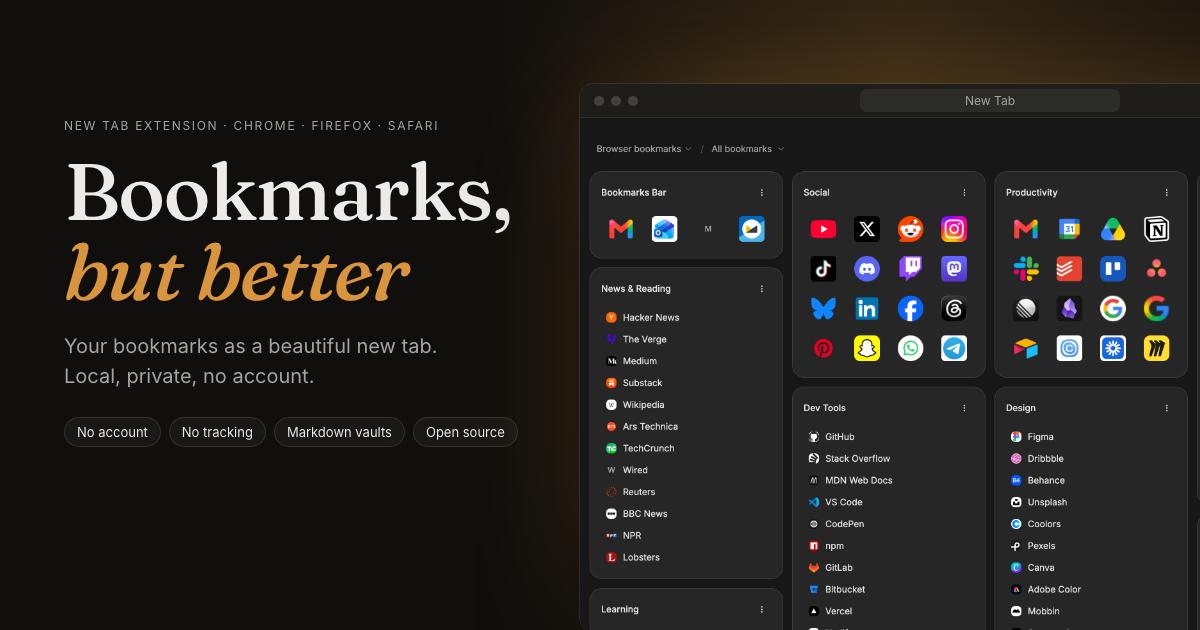
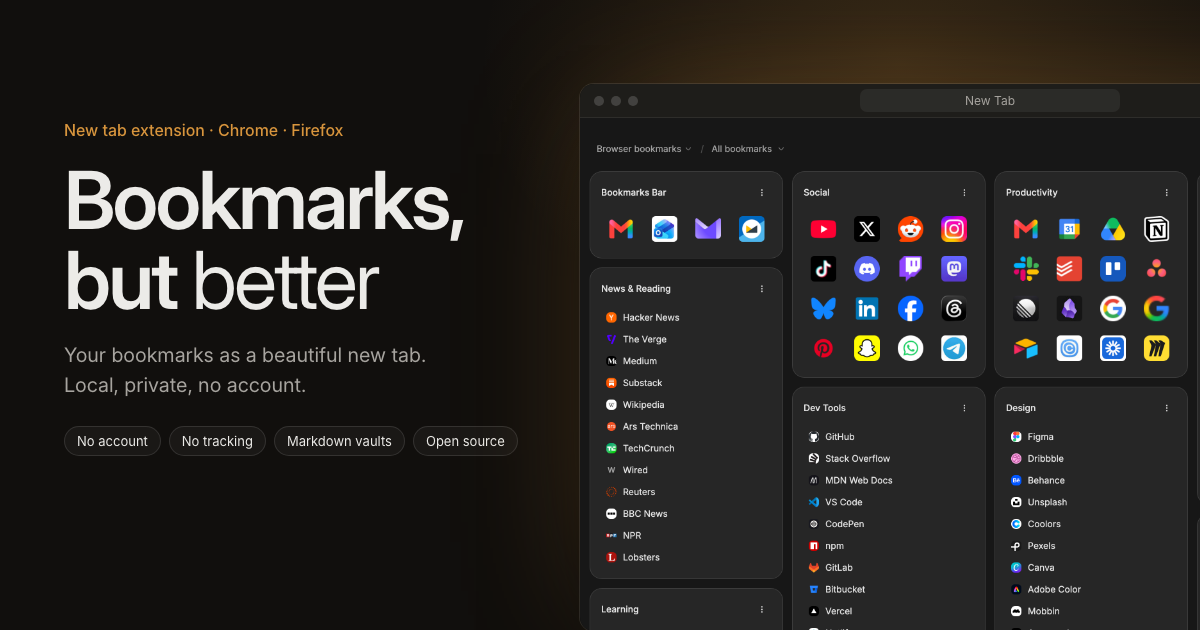
fix(marketing): rebuild the image pipeline on the new typography (#106)
Removing Fraunces from the website broke these scripts: brand.ts loads
its faces from the website's dependencies and throws when one is missing,
so on a clean install the pipeline failed. It now loads the same single
Inter file the site does, and sets headlines the way the site does, with
a weight shift where the serif had an italic.

The social card also claimed Safari, which the site now says is coming
soon, so every share said the opposite of the page it linked to. The card
is regenerated without that claim.

The store and promo images under marketing/output are left untouched.
They are uploaded to the extension stores by hand, and regenerating them
needs a human eye on six screenshots, so they stay stale rather than
half-updated.

diff --git a/marketing/scripts/capture.spec.ts b/marketing/scripts/capture.spec.ts
@@ -10,7 +10,7 @@
  * - website/public/          og.png (1200×630)
  * - website/src/assets/screenshots/  uncaptioned website screenshots
  *
- * Captions and visual language follow website/BRAND.md ("The Quiet Library").
+ * Captions and visual language follow website/BRAND.md ("Modern editorial").
  */
 import { test, type Browser } from "@playwright/test"
 import fs from "fs"
@@ -245,8 +245,8 @@ test("capture store, promo and website images", async ({ browser }) => {
   await test.step("promo tiles", async () => {
     const heroCss = (h1: number, sub: number) => `
       .hero { position: absolute; }
-      .hero .eyebrow { font-size: 12px; letter-spacing: 0.14em; text-transform: uppercase; color: var(--muted); }
-      .hero h1 { font-size: ${h1}px; line-height: 1.0; margin-top: 18px; }
+      .hero .eyebrow { font-size: 16px; line-height: 1.5; font-weight: 500; color: var(--primary); }
+      .hero h1 { font-size: ${h1}px; line-height: 1.0; margin-top: 18px; letter-spacing: -0.035em; }
       .hero p { font-size: ${sub}px; line-height: 1.5; color: var(--muted); margin-top: 20px; }
       .chips { display: flex; flex-wrap: wrap; gap: 8px; margin-top: 26px; }
       .chips span { font-size: 13px; color: var(--fg); padding: 6px 12px; border-radius: 999px; border: 1px solid var(--hairline); background: oklch(1 0 0 / 4%); }
@@ -259,8 +259,8 @@ test("capture store, promo and website images", async ({ browser }) => {
       `${OUT}/promo-marquee.png`,
       { width: 1400, height: 560 },
       `<div class="hero" style="left:72px;top:92px;width:520px">
-        <div class="eyebrow">New tab extension · Chrome · Firefox · Safari</div>
-        <h1 class="display">Bookmarks,<br><em>but better</em></h1>
+        <div class="eyebrow">New tab extension · Chrome · Firefox</div>
+        <h1 class="display">Bookmarks,<br>but <em>better</em></h1>
         <p>Your bookmarks as a beautiful new tab.<br>Local, private, no account.</p>
         ${chips}
       </div>` + browserWindow(dashboard, { left: 640, top: 72, width: 900 }),
@@ -272,8 +272,8 @@ test("capture store, promo and website images", async ({ browser }) => {
       `${SITE}/og.png`,
       { width: 1200, height: 630 },
       `<div class="hero" style="left:64px;top:118px;width:500px">
-        <div class="eyebrow">New tab extension · Chrome · Firefox · Safari</div>
-        <h1 class="display">Bookmarks,<br><em>but better</em></h1>
+        <div class="eyebrow">New tab extension · Chrome · Firefox</div>
+        <h1 class="display">Bookmarks,<br>but <em>better</em></h1>
         <p>Your bookmarks as a beautiful new tab.<br>Local, private, no account.</p>
         ${chips}
       </div>` + browserWindow(dashboard, { left: 580, top: 84, width: 820 }),
@@ -285,7 +285,7 @@ test("capture store, promo and website images", async ({ browser }) => {
       `${OUT}/promo-small.png`,
       { width: 440, height: 280 },
       `<div class="hero" style="left:28px;top:52px;width:250px">
-        <h1 class="display">Bookmarks,<br><em>but better</em></h1>
+        <h1 class="display">Bookmarks,<br>but <em>better</em></h1>
         <p>A beautiful, private<br>new tab for your bookmarks.</p>
       </div>` + browserWindow(dashboard, { left: 250, top: 40, width: 420 }),
       heroCss(38, 13) +

diff --git a/marketing/scripts/brand.ts b/marketing/scripts/brand.ts
@@ -18,31 +18,22 @@ export const APP_H = 800
 
 const FONTS = path.join(ROOT, "website/node_modules/@fontsource-variable")
 
+/**
+ * One face for everything, the same file the site loads (astro.config.ts): the
+ * `opsz` build carries the weight and optical size axes together, so display
+ * sizes get Inter Display's drawing without a second font.
+ */
 function fontFaces() {
-  const face = (family: string, file: string, style: string) => {
-    const fontPath = path.join(FONTS, file)
-    if (!fs.existsSync(fontPath)) {
-      // The brand fonts are the website's dependencies, not the root's.
-      throw new Error(
-        `Missing brand font ${path.relative(ROOT, fontPath)}. Run \`bun install --cwd website\` first.`
-      )
-    }
-    const data = fs.readFileSync(fontPath).toString("base64")
-    return `@font-face{font-family:"${family}";font-style:${style};font-weight:100 900;src:url(data:font/woff2;base64,${data}) format("woff2")}`
+  const file = "inter/files/inter-latin-opsz-normal.woff2"
+  const fontPath = path.join(FONTS, file)
+  if (!fs.existsSync(fontPath)) {
+    // The brand font is the website's dependency, not the root's.
+    throw new Error(
+      `Missing brand font ${path.relative(ROOT, fontPath)}. Run \`bun install --cwd website\` first.`
+    )
   }
-  return [
-    face(
-      "Fraunces",
-      "fraunces/files/fraunces-latin-wght-normal.woff2",
-      "normal"
-    ),
-    face(
-      "Fraunces",
-      "fraunces/files/fraunces-latin-wght-italic.woff2",
-      "italic"
-    ),
-    face("Inter", "inter/files/inter-latin-wght-normal.woff2", "normal"),
-  ].join("")
+  const data = fs.readFileSync(fontPath).toString("base64")
+  return `@font-face{font-family:"Inter";font-style:normal;font-weight:100 900;src:url(data:font/woff2;base64,${data}) format("woff2")}`
 }
 
 const BASE_CSS = `
@@ -64,8 +55,11 @@ const BASE_CSS = `
     position: absolute; inset: 0; pointer-events: none;
     background: radial-gradient(60% 55% at 50% 0%, oklch(0.72 0.13 70 / 0.16), transparent 70%);
   }
-  .display { font-family: Fraunces, serif; font-weight: 500; letter-spacing: -0.02em; }
-  .display em { font-style: italic; color: var(--primary); }
+  /* Display type is the body face set heavier and tighter — no second family.
+     An <em> is the hero's accent word: lighter against the semibold line,
+     never a slant (Inter's italic reads as a mistake at this size). */
+  .display { font-weight: 600; letter-spacing: -0.03em; }
+  .display em { font-style: normal; font-weight: 400; }
   .window {
     position: absolute; overflow: hidden; border-radius: 14px;
     background: #0b0b0b;
@@ -148,7 +142,7 @@ export async function render(
 
 export const CAPTION_CSS = `
   .caption { position: absolute; left: 0; right: 0; top: 58px; text-align: center; }
-  .caption .index { font-family: Fraunces, serif; font-style: italic; font-size: 19px; color: var(--primary); }
+  .caption .index { font-size: 19px; font-weight: 500; color: var(--primary); }
   .caption h1 { margin-top: 10px; font-size: 52px; line-height: 1.08; }
   .caption p { margin: 16px auto 0; max-width: 780px; font-size: 19px; line-height: 1.5; color: var(--muted); }
 `

diff --git a/marketing/scripts/walkthrough.spec.ts b/marketing/scripts/walkthrough.spec.ts
@@ -209,7 +209,7 @@ async function record(page: Page, clip: Clip, pointer: Pointer) {
 
 const VIDEO_CSS = `
   .caption { position: absolute; left: 0; right: 0; top: 44px; text-align: center; }
-  .caption .index { font-family: Fraunces, serif; font-style: italic; font-size: 22px; color: var(--primary); }
+  .caption .index { font-size: 22px; font-weight: 500; color: var(--primary); }
   .caption h1 { margin-top: 6px; font-size: 62px; line-height: 1.08; }
   .caption p { margin-top: 12px; font-size: 24px; color: var(--muted); }
   .bar { height: ${BAR}px; gap: 8px; padding: 0 16px; }
@@ -529,8 +529,8 @@ test("record the walkthrough video", async ({ browser }) => {
     path.join(WORK, "intro.png"),
     { width: W, height: H },
     `<div class="card">
-        <div class="eyebrow">New tab extension · Chrome · Firefox · Safari</div>
-        <h1 class="display" style="font-size:150px;margin-top:28px">Bookmarks,<br><em>but better</em></h1>
+        <div class="eyebrow">New tab extension · Chrome · Firefox</div>
+        <h1 class="display" style="font-size:150px;margin-top:28px">Bookmarks,<br>but <em>better</em></h1>
         <p style="margin-top:32px">Your bookmarks as a beautiful new tab.</p>
       </div>`,
     VIDEO_CSS
@@ -578,9 +578,9 @@ test("record the walkthrough video", async ({ browser }) => {
     path.join(WORK, "outro.png"),
     { width: W, height: H },
     `<div class="card">
-        <h1 class="display" style="font-size:120px">Bookmarks, <em>but better</em></h1>
+        <h1 class="display" style="font-size:120px">Bookmarks, but <em>better</em></h1>
         <p style="margin-top:28px">Local, private, no account. Free and open source.</p>
-        <div class="chips"><span>Chrome</span><span>Firefox</span><span>Safari</span></div>
+        <div class="chips"><span>Chrome</span><span>Firefox</span></div>
         <div class="url">bookmarks.but-better.dev</div>
       </div>`,
     VIDEO_CSS
